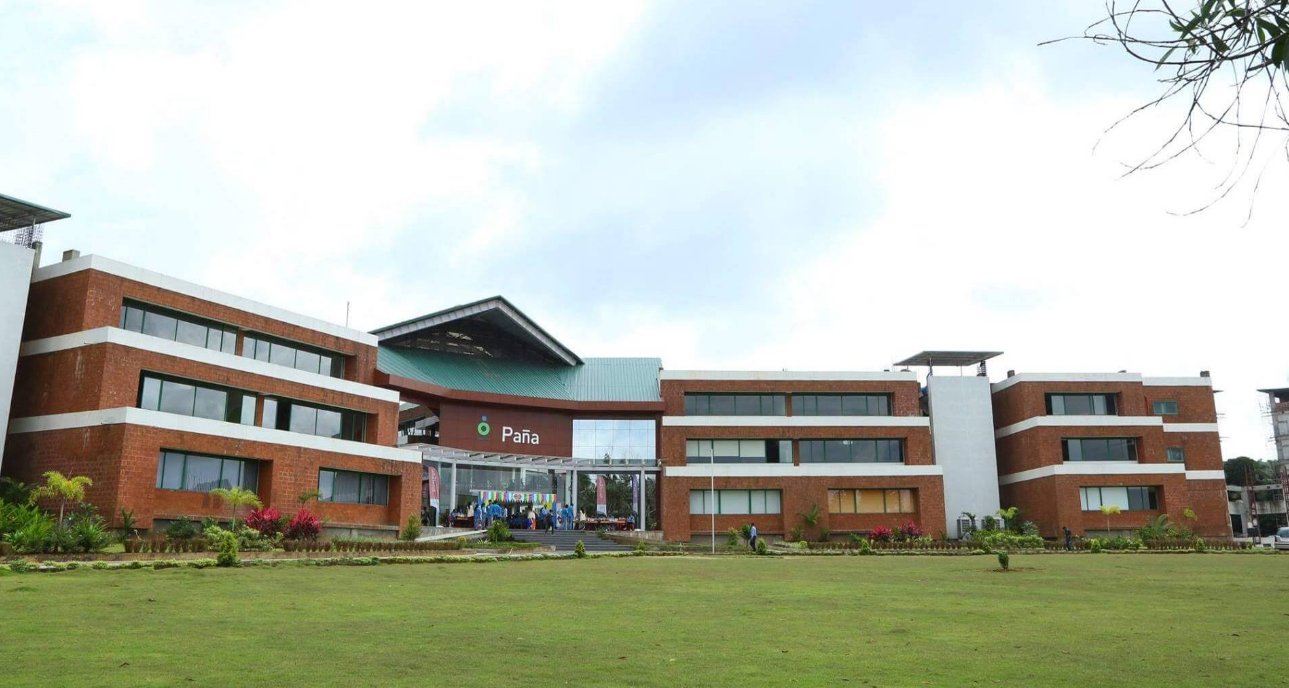
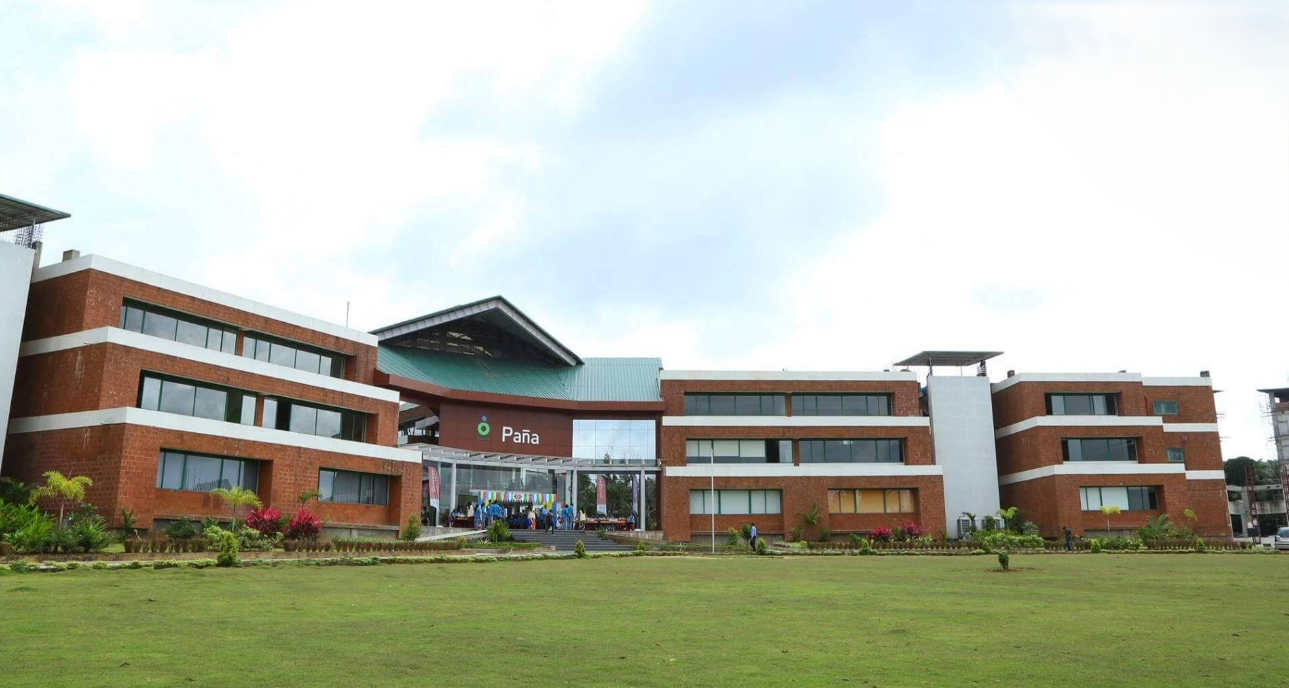
translator added

Changed region(s): [[0.8068, 0.0, 1.0, 0.2442]]

diff --git a/index.html b/index.html
@@ -2495,7 +2495,7 @@
 
                 <!-- Left: Image -->
                 <div class="why-visual fade-up">
-                    <img src="./mnr-open-img.png" alt="MNR Hospital commitment to excellence" />
+                    <img src="./mnr-img.png" alt="MNR Hospital commitment to excellence" />
                 </div>
 
                 <!-- Right: Features -->
